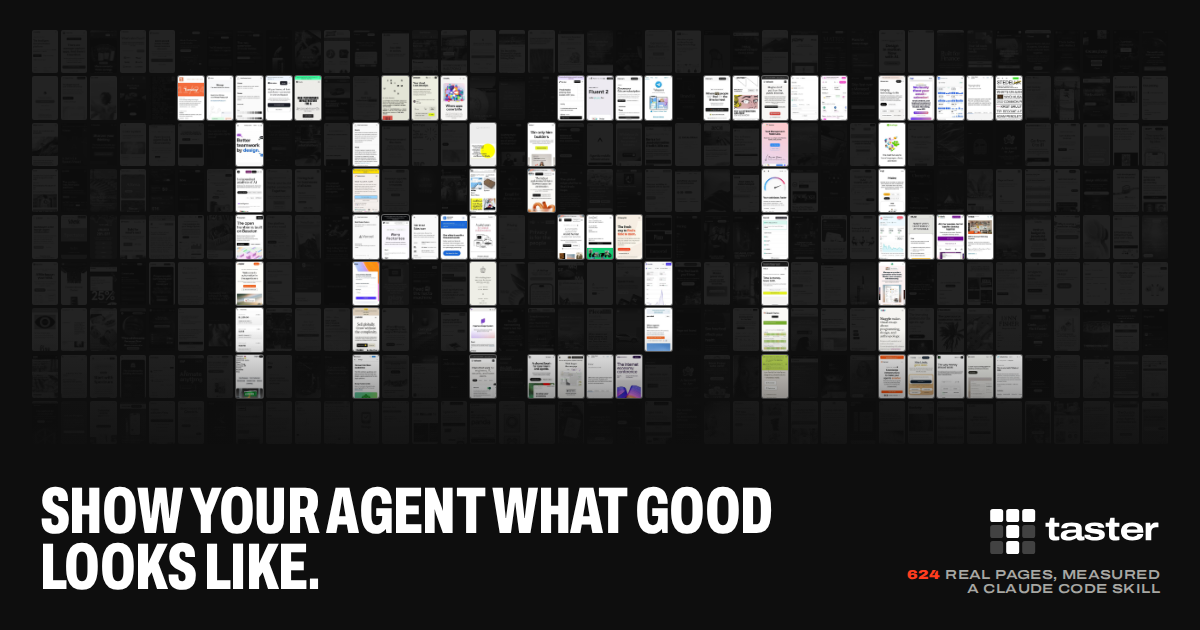
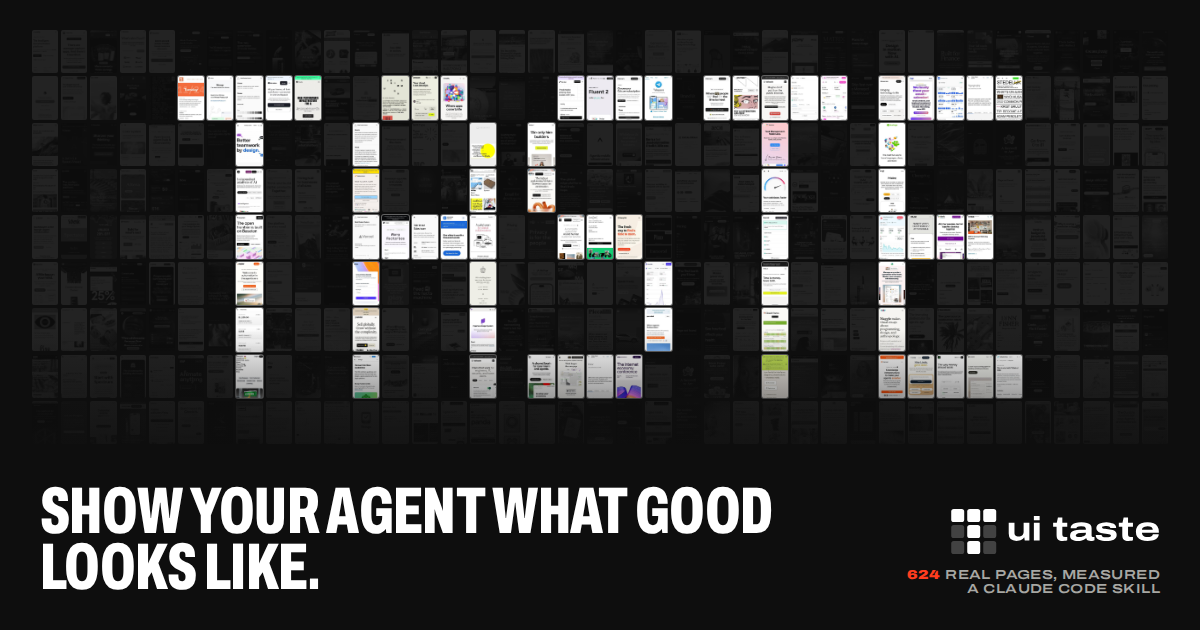
brand: the name is ui taste, not taster
New lockup (same tile mark, 'ui taste' in outlined Archivo at the old x-height and baseline) generated by
web/scripts/make_logo.py; site titles, metadata, aria labels, share banners and per-screen OG images renamed.

Changed region(s): [[0.7708, 0.7841, 0.9867, 0.9048]]

diff --git a/site/index.html b/site/index.html
@@ -3,8 +3,8 @@
 <head>
 <meta charset="utf-8">
 <meta name="viewport" content="width=device-width, initial-scale=1">
-<title>taster</title>
-<meta name="description" content="taster, a Claude Code skill: real pages from products known for their design, measured on the live page, so the agent looks before it builds.">
+<title>ui taste</title>
+<meta name="description" content="ui taste, a Claude Code skill: real pages from products known for their design, measured on the live page, so the agent looks before it builds.">
 <link rel="icon" href="brand/favicon.svg" type="image/svg+xml">
 <link rel="icon" href="brand/favicon-32.png" sizes="32x32" type="image/png">
 <link rel="apple-touch-icon" href="brand/apple-touch-icon.png">
@@ -21,7 +21,7 @@
 
 <header class="masthead">
   <div class="masthead-inner">
-    <a class="wordmark" href="index.html"><span class="logo" role="img" aria-label="taster"></span></a>
+    <a class="wordmark" href="index.html"><span class="logo" role="img" aria-label="ui taste"></span></a>
     <nav class="nav" aria-label="Sections">
       <a href="#measured">Measured</a>
       <a href="#numbers">Numbers</a>
@@ -200,7 +200,7 @@
             <div class="d-card"><span class="d-ico">🎯</span><b>Easy to Use</b><p>An intuitive interface anyone can use.</p><strong>One list of who is late</strong></div>
           </div>
         </div>
-        <p class="demo-note"><b>About the visuals.</b> The sky and hills here are drawn placeholders, the kind you would generate or shoot. taster does not make your visuals: it gives Claude the layout ideas (where the product sits, how the scene frames it, what goes on top), and the images come from you or an image model.</p>
+        <p class="demo-note"><b>About the visuals.</b> The sky and hills here are drawn placeholders, the kind you would generate or shoot. ui taste does not make your visuals: it gives Claude the layout ideas (where the product sits, how the scene frames it, what goes on top), and the images come from you or an image model.</p>
       </div>
     </div>
     <details class="all-checks"><summary>The full checklist Claude runs <span id="n-checks"></span></summary><div class="checks" id="checks"></div></details>
@@ -225,7 +225,7 @@ cp -r ui-taste/skills/ui-taste ~/.claude/skills/">Copy</button></div>
 </main>
 
 <footer class="foot">
-  <p class="foot-mark"><span class="logo logo-xl" role="img" aria-label="taster"></span></p>
+  <p class="foot-mark"><span class="logo logo-xl" role="img" aria-label="ui taste"></span></p>
   <dl>
     <div><dt>Set in</dt><dd>Archivo, from 62% to 125% width</dd></div>
     <div><dt>Library</dt><dd><span id="c-pages">273</span> pages · <span id="c-shots">546</span> screenshots · last capture <span id="c-date"></span></dd></div>

diff --git a/site/library.html b/site/library.html
@@ -3,8 +3,8 @@
 <head>
 <meta charset="utf-8">
 <meta name="viewport" content="width=device-width, initial-scale=1">
-<title>taster · library</title>
-<meta name="description" content="The taster library: real screens from products known for their design, with the tokens measured on each live page.">
+<title>ui taste · library</title>
+<meta name="description" content="The ui taste library: real screens from products known for their design, with the tokens measured on each live page.">
 <link rel="preconnect" href="https://fonts.googleapis.com">
 <link rel="preconnect" href="https://fonts.gstatic.com" crossorigin>
 <link href="https://fonts.googleapis.com/css2?family=Archivo:ital,wdth,wght@0,62..125,100..900;1,62..125,100..900&display=swap" rel="stylesheet">
@@ -19,7 +19,7 @@
 <body>
 <header class="bar">
   <div class="bar-inner">
-    <a class="brand" href="index.html" aria-label="taster home"><span class="logo" role="img" aria-label="taster"></span></a>
+    <a class="brand" href="index.html" aria-label="ui taste home"><span class="logo" role="img" aria-label="ui taste"></span></a>
     <a class="crumb" href="#" id="lib-home">Library</a>
     <label class="search">
       <span class="visually-hidden">Search</span>

diff --git a/web/src/styles/landing.css b/web/src/styles/landing.css
@@ -52,9 +52,9 @@ h1, h2, .wordmark, .foot-mark {
 .btn-line { box-shadow: inset 0 0 0 1.5px var(--ink); }
 .btn-line:hover { background: var(--ink); color: #fff; }
 
-/* the taster logo, painted in currentColor through a mask so it follows the theme */
-.logo { display: inline-block; width: 98px; height: 26px; background: currentColor; -webkit-mask: url("/brand/taster-logo-mask.svg") center / contain no-repeat; mask: url("/brand/taster-logo-mask.svg") center / contain no-repeat; vertical-align: middle; }
-.logo-xl { width: 100%; height: auto; aspect-ratio: 392 / 104; display: block; }
+/* the ui taste logo, painted in currentColor through a mask so it follows the theme */
+.logo { display: inline-block; width: 120px; height: 26px; background: currentColor; -webkit-mask: url("/brand/uitaste-logo-mask.svg") center / contain no-repeat; mask: url("/brand/uitaste-logo-mask.svg") center / contain no-repeat; vertical-align: middle; }
+.logo-xl { width: 100%; height: auto; aspect-ratio: 482 / 104; display: block; }
 
 /* ---------- masthead ---------- */
 .masthead { position: sticky; top: 0; z-index: 20; background: #0e0e0e; color: #fff; }

diff --git a/site/landing.css b/site/landing.css
@@ -52,9 +52,9 @@ h1, h2, .wordmark, .foot-mark {
 .btn-line { box-shadow: inset 0 0 0 1.5px var(--ink); }
 .btn-line:hover { background: var(--ink); color: #fff; }
 
-/* the taster logo, painted in currentColor through a mask so it follows the theme */
-.logo { display: inline-block; width: 98px; height: 26px; background: currentColor; -webkit-mask: url("brand/taster-logo-mask.svg") center / contain no-repeat; mask: url("brand/taster-logo-mask.svg") center / contain no-repeat; vertical-align: middle; }
-.logo-xl { width: 100%; height: auto; aspect-ratio: 392 / 104; display: block; }
+/* the ui taste logo, painted in currentColor through a mask so it follows the theme */
+.logo { display: inline-block; width: 120px; height: 26px; background: currentColor; -webkit-mask: url("brand/uitaste-logo-mask.svg") center / contain no-repeat; mask: url("brand/uitaste-logo-mask.svg") center / contain no-repeat; vertical-align: middle; }
+.logo-xl { width: 100%; height: auto; aspect-ratio: 482 / 104; display: block; }
 
 /* ---------- masthead ---------- */
 .masthead { position: sticky; top: 0; z-index: 20; background: #0e0e0e; color: #fff; }

diff --git a/web/src/lib/meta.ts b/web/src/lib/meta.ts
@@ -1,6 +1,6 @@
 import type { Metadata } from "next";
 
-export const SITE_NAME = "taster";
+export const SITE_NAME = "ui taste";
 // The one address the site answers to. Canonical links, the sitemap and Open Graph URLs are built from it,
 // and the Vercel hostnames redirect here (next.config.ts). Override with NEXT_PUBLIC_SITE_URL for a preview.
 export const SITE_HOST = "www.uitaste.dev";
@@ -9,7 +9,7 @@ export const BASE_URL = process.env.NEXT_PUBLIC_SITE_URL || (process.env.NODE_EN
 export const baseMetadata: Metadata = {
   metadataBase: new URL(BASE_URL),
   title: SITE_NAME,
-  description: "taster, a Claude Code skill: real pages from products known for their design, measured on the live page, so the agent looks before it builds.",
+  description: "ui taste, a Claude Code skill: real pages from products known for their design, measured on the live page, so the agent looks before it builds.",
   robots: { index: true, follow: true },
   alternates: { canonical: "/" },
   openGraph: { siteName: SITE_NAME, type: "website", url: "/" },

diff --git a/web/src/app/(library)/library/[id]/opengraph-image.tsx b/web/src/app/(library)/library/[id]/opengraph-image.tsx
@@ -6,7 +6,7 @@ import { getItem } from "@/lib/library";
 
 export const size = { width: 1200, height: 630 };
 export const contentType = "image/png";
-export const alt = "A page from the taster library";
+export const alt = "A page from the ui taste library";
 
 export default async function OpenGraph({ params }: { params: Promise<{ id: string }> }) {
   const { id } = await params;
@@ -27,7 +27,7 @@ export default async function OpenGraph({ params }: { params: Promise<{ id: stri
           </div>
           <div style={{ display: "flex", alignItems: "center", justifyContent: "space-between" }}>
             <div style={{ display: "flex", gap: 8 }}>{pal.map((c) => <div key={c} style={{ width: 36, height: 36, borderRadius: 6, background: c, border: "1px solid rgba(255,255,255,.2)" }} />)}</div>
-            <div style={{ fontSize: 28, fontWeight: 800, letterSpacing: -1 }}>taster</div>
+            <div style={{ fontSize: 28, fontWeight: 800, letterSpacing: -1 }}>ui taste</div>
           </div>
         </div>
       </div>

diff --git a/web/src/styles/library.css b/web/src/styles/library.css
@@ -81,8 +81,8 @@ a { color: inherit; }
   max-width: 1600px; margin: 0 auto; padding: 0 32px;
   height: 60px; display: flex; align-items: center; gap: 24px;
 }
-/* the taster logo, painted in currentColor through a mask so it follows the theme */
-.logo { display: inline-block; width: 98px; height: 26px; background: currentColor; -webkit-mask: url("/brand/taster-logo-mask.svg") center / contain no-repeat; mask: url("/brand/taster-logo-mask.svg") center / contain no-repeat; vertical-align: middle; }
+/* the ui taste logo, painted in currentColor through a mask so it follows the theme */
+.logo { display: inline-block; width: 120px; height: 26px; background: currentColor; -webkit-mask: url("/brand/uitaste-logo-mask.svg") center / contain no-repeat; mask: url("/brand/uitaste-logo-mask.svg") center / contain no-repeat; vertical-align: middle; }
 .brand {
   display: inline-flex; align-items: center; gap: 10px;
   font-weight: 600; font-size: 16px; letter-spacing: -0.01em; text-decoration: none;

diff --git a/site/style.css b/site/style.css
@@ -81,8 +81,8 @@ a { color: inherit; }
   max-width: 1600px; margin: 0 auto; padding: 0 32px;
   height: 60px; display: flex; align-items: center; gap: 24px;
 }
-/* the taster logo, painted in currentColor through a mask so it follows the theme */
-.logo { display: inline-block; width: 98px; height: 26px; background: currentColor; -webkit-mask: url("brand/taster-logo-mask.svg") center / contain no-repeat; mask: url("brand/taster-logo-mask.svg") center / contain no-repeat; vertical-align: middle; }
+/* the ui taste logo, painted in currentColor through a mask so it follows the theme */
+.logo { display: inline-block; width: 120px; height: 26px; background: currentColor; -webkit-mask: url("brand/uitaste-logo-mask.svg") center / contain no-repeat; mask: url("brand/uitaste-logo-mask.svg") center / contain no-repeat; vertical-align: middle; }
 .brand {
   display: inline-flex; align-items: center; gap: 10px;
   font-weight: 600; font-size: 16px; letter-spacing: -0.01em; text-decoration: none;

diff --git a/web/src/components/landing/Fixer.tsx b/web/src/components/landing/Fixer.tsx
@@ -81,7 +81,7 @@ export function Fixer() {
             <div className="d-card"><span className="d-ico">🎯</span><b>Easy to Use</b><p>An intuitive interface anyone can use.</p><strong>One list of who is late</strong></div>
           </div>
         </div>
-        <p className="demo-note"><b>About the visuals.</b> The sky and hills here are drawn placeholders, the kind you would generate or shoot. taster does not make your visuals: it gives Claude the layout ideas (where the product sits, how the scene frames it, what goes on top), and the images come from you or an image model.</p>
+        <p className="demo-note"><b>About the visuals.</b> The sky and hills here are drawn placeholders, the kind you would generate or shoot. ui taste does not make your visuals: it gives Claude the layout ideas (where the product sits, how the scene frames it, what goes on top), and the images come from you or an image model.</p>
       </div>
     </div>
   );

diff --git a/web/src/app/(library)/library/[id]/page.tsx b/web/src/app/(library)/library/[id]/page.tsx
@@ -16,7 +16,7 @@ export async function generateMetadata({ params }: Params): Promise<Metadata> {
   const it = getItem(id);
   if (!it) return {};
   const title = `${it.site} ${libTypeLabel(it.type).toLowerCase()}`;
-  return { title, description: it.note, alternates: { canonical: `/library/${it.id}` }, openGraph: { title: `${title} · taster`, description: it.note, type: "article", url: `/library/${it.id}`, siteName: "taster" } };
+  return { title, description: it.note, alternates: { canonical: `/library/${it.id}` }, openGraph: { title: `${title} · ui taste`, description: it.note, type: "article", url: `/library/${it.id}`, siteName: "ui taste" } };
 }
 
 export default async function Page({ params }: Params) {

diff --git a/web/src/app/(library)/layout.tsx b/web/src/app/(library)/layout.tsx
@@ -6,8 +6,8 @@ import "@/styles/library.css";
 
 export const metadata: Metadata = {
   ...baseMetadata,
-  title: { default: "taster · library", template: "%s · taster" },
-  description: "The taster library: real screens from products known for their design, with the tokens measured on each live page.",
+  title: { default: "ui taste · library", template: "%s · ui taste" },
+  description: "The ui taste library: real screens from products known for their design, with the tokens measured on each live page.",
   alternates: { canonical: "/library" },
   openGraph: { ...baseMetadata.openGraph, url: "/library" },
 };

diff --git a/web/src/components/library/LibraryBar.tsx b/web/src/components/library/LibraryBar.tsx
@@ -8,7 +8,7 @@ export function LibraryBar({ search, actions, onHome }: { search?: React.ReactNo
   return (
     <header className="bar">
       <div className="bar-inner">
-        <Link className="brand" href="/" aria-label="taster home"><Logo /></Link>
+        <Link className="brand" href="/" aria-label="ui taste home"><Logo /></Link>
         <Link className="crumb" href="/library" id="lib-home" onClick={onHome}>Library</Link>
         {search}
         <div className="bar-actions" style={search ? undefined : { marginLeft: "auto" }}>
